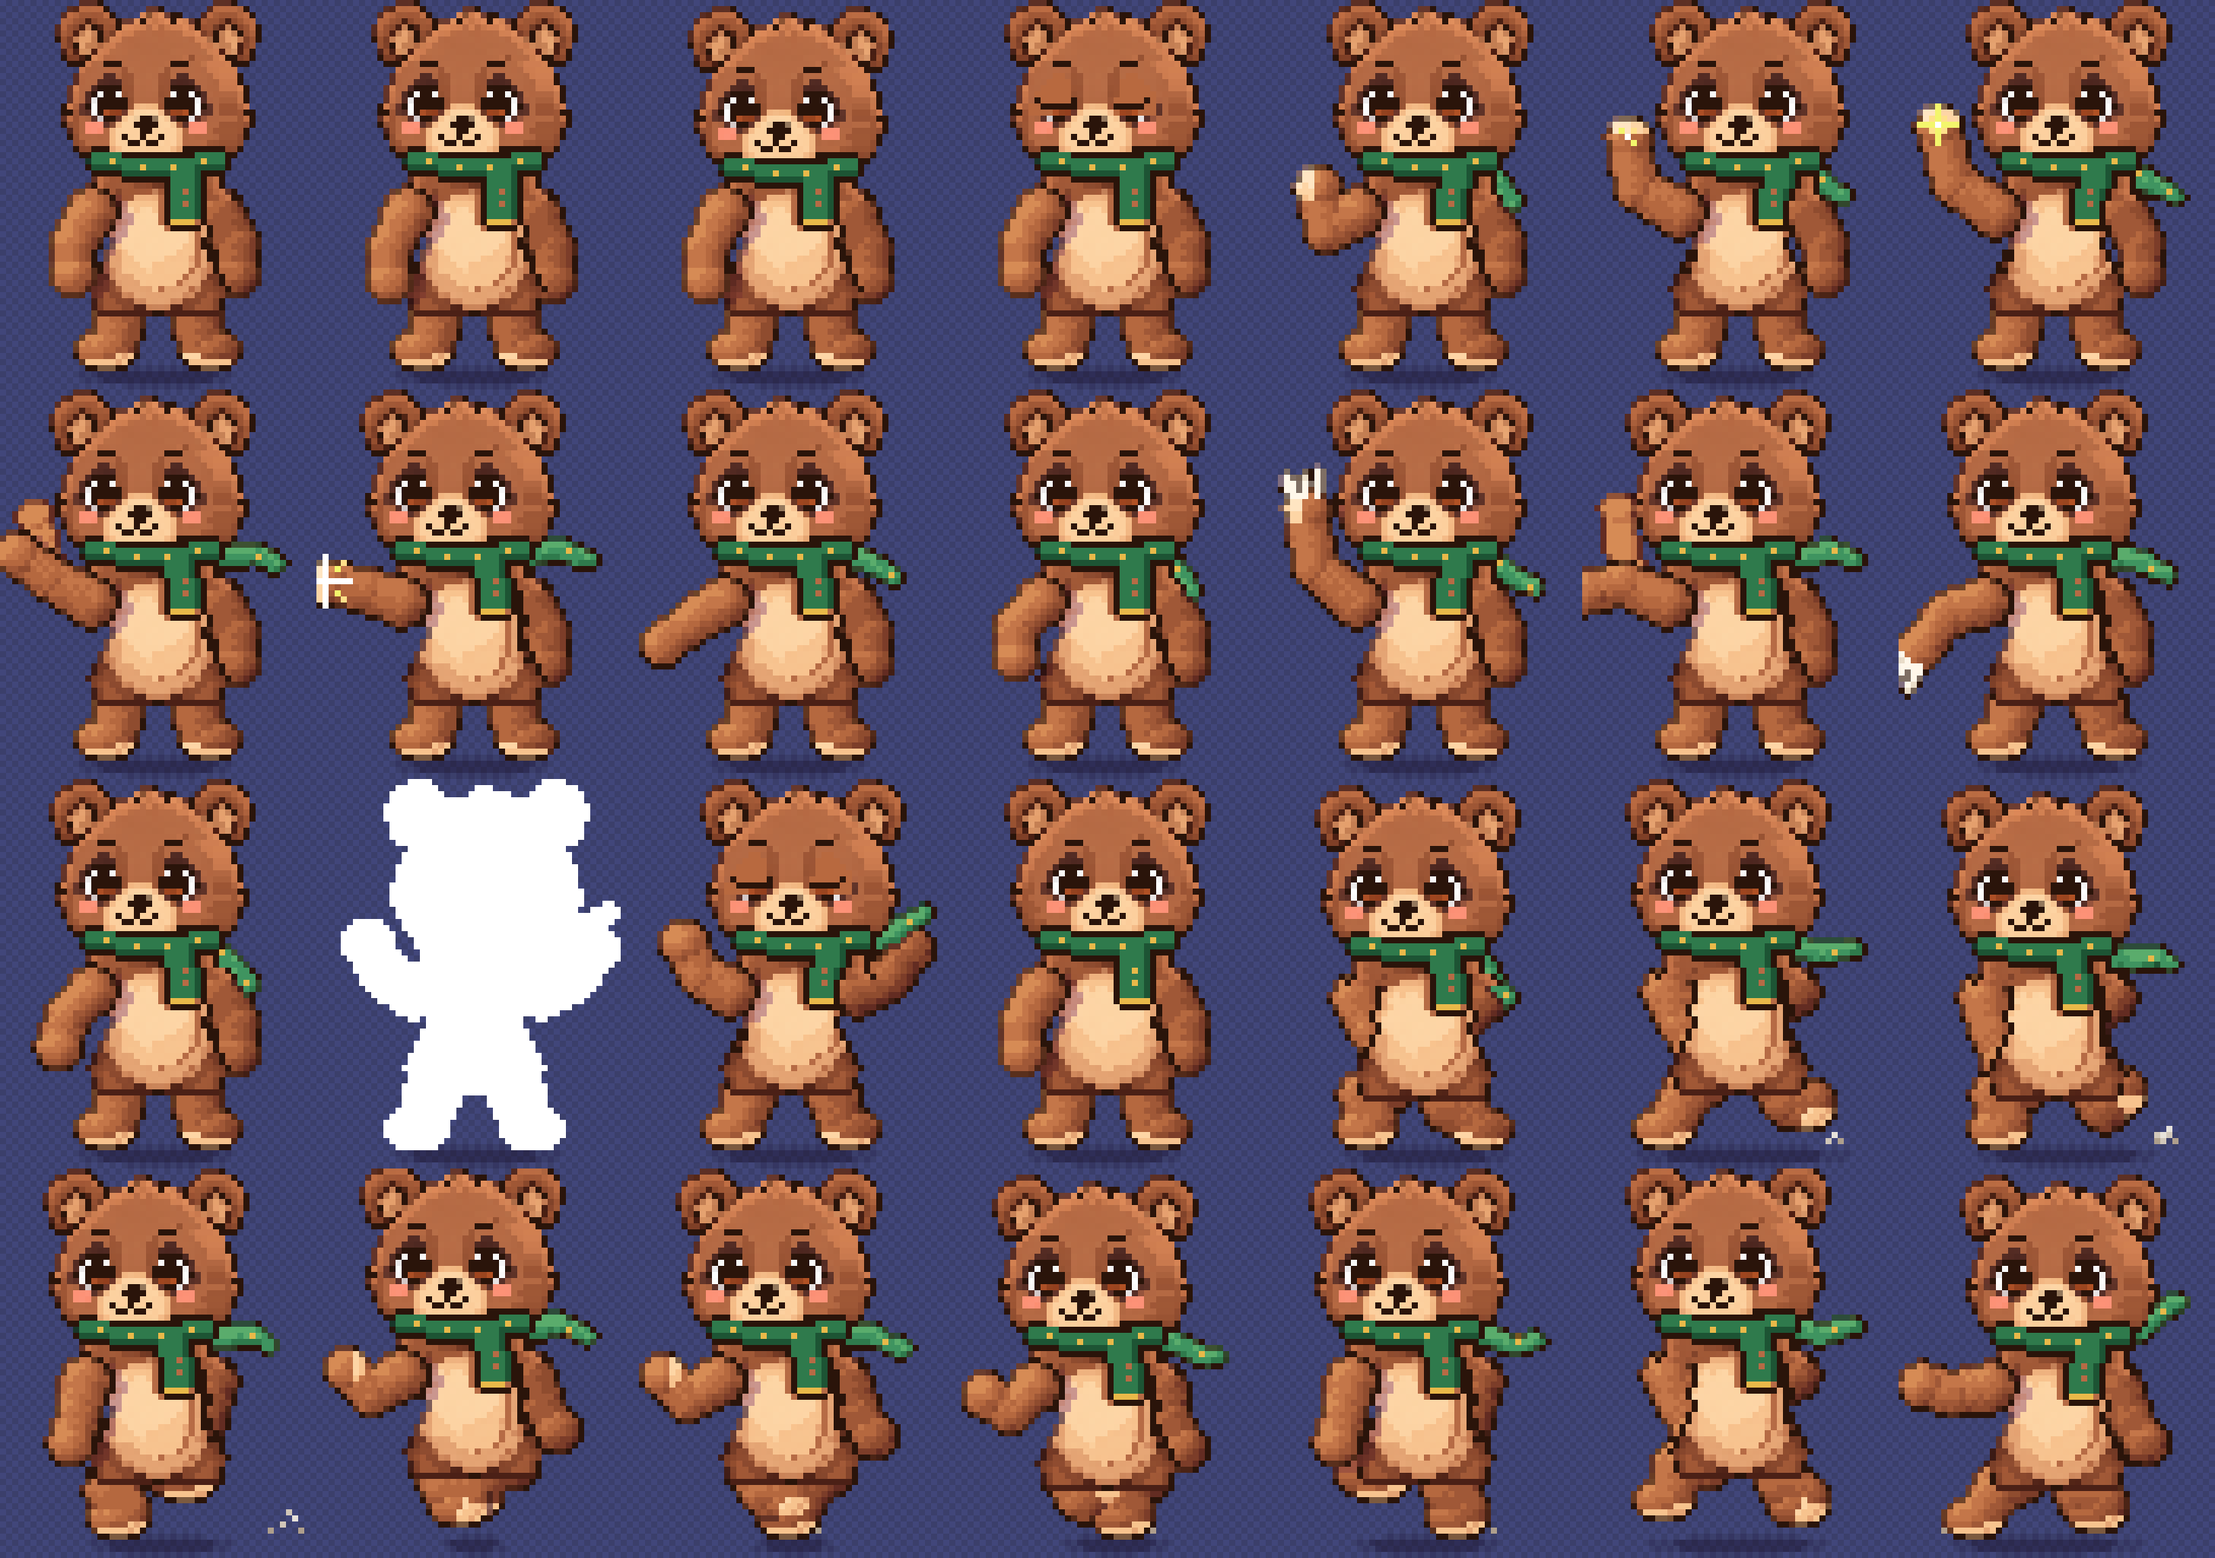
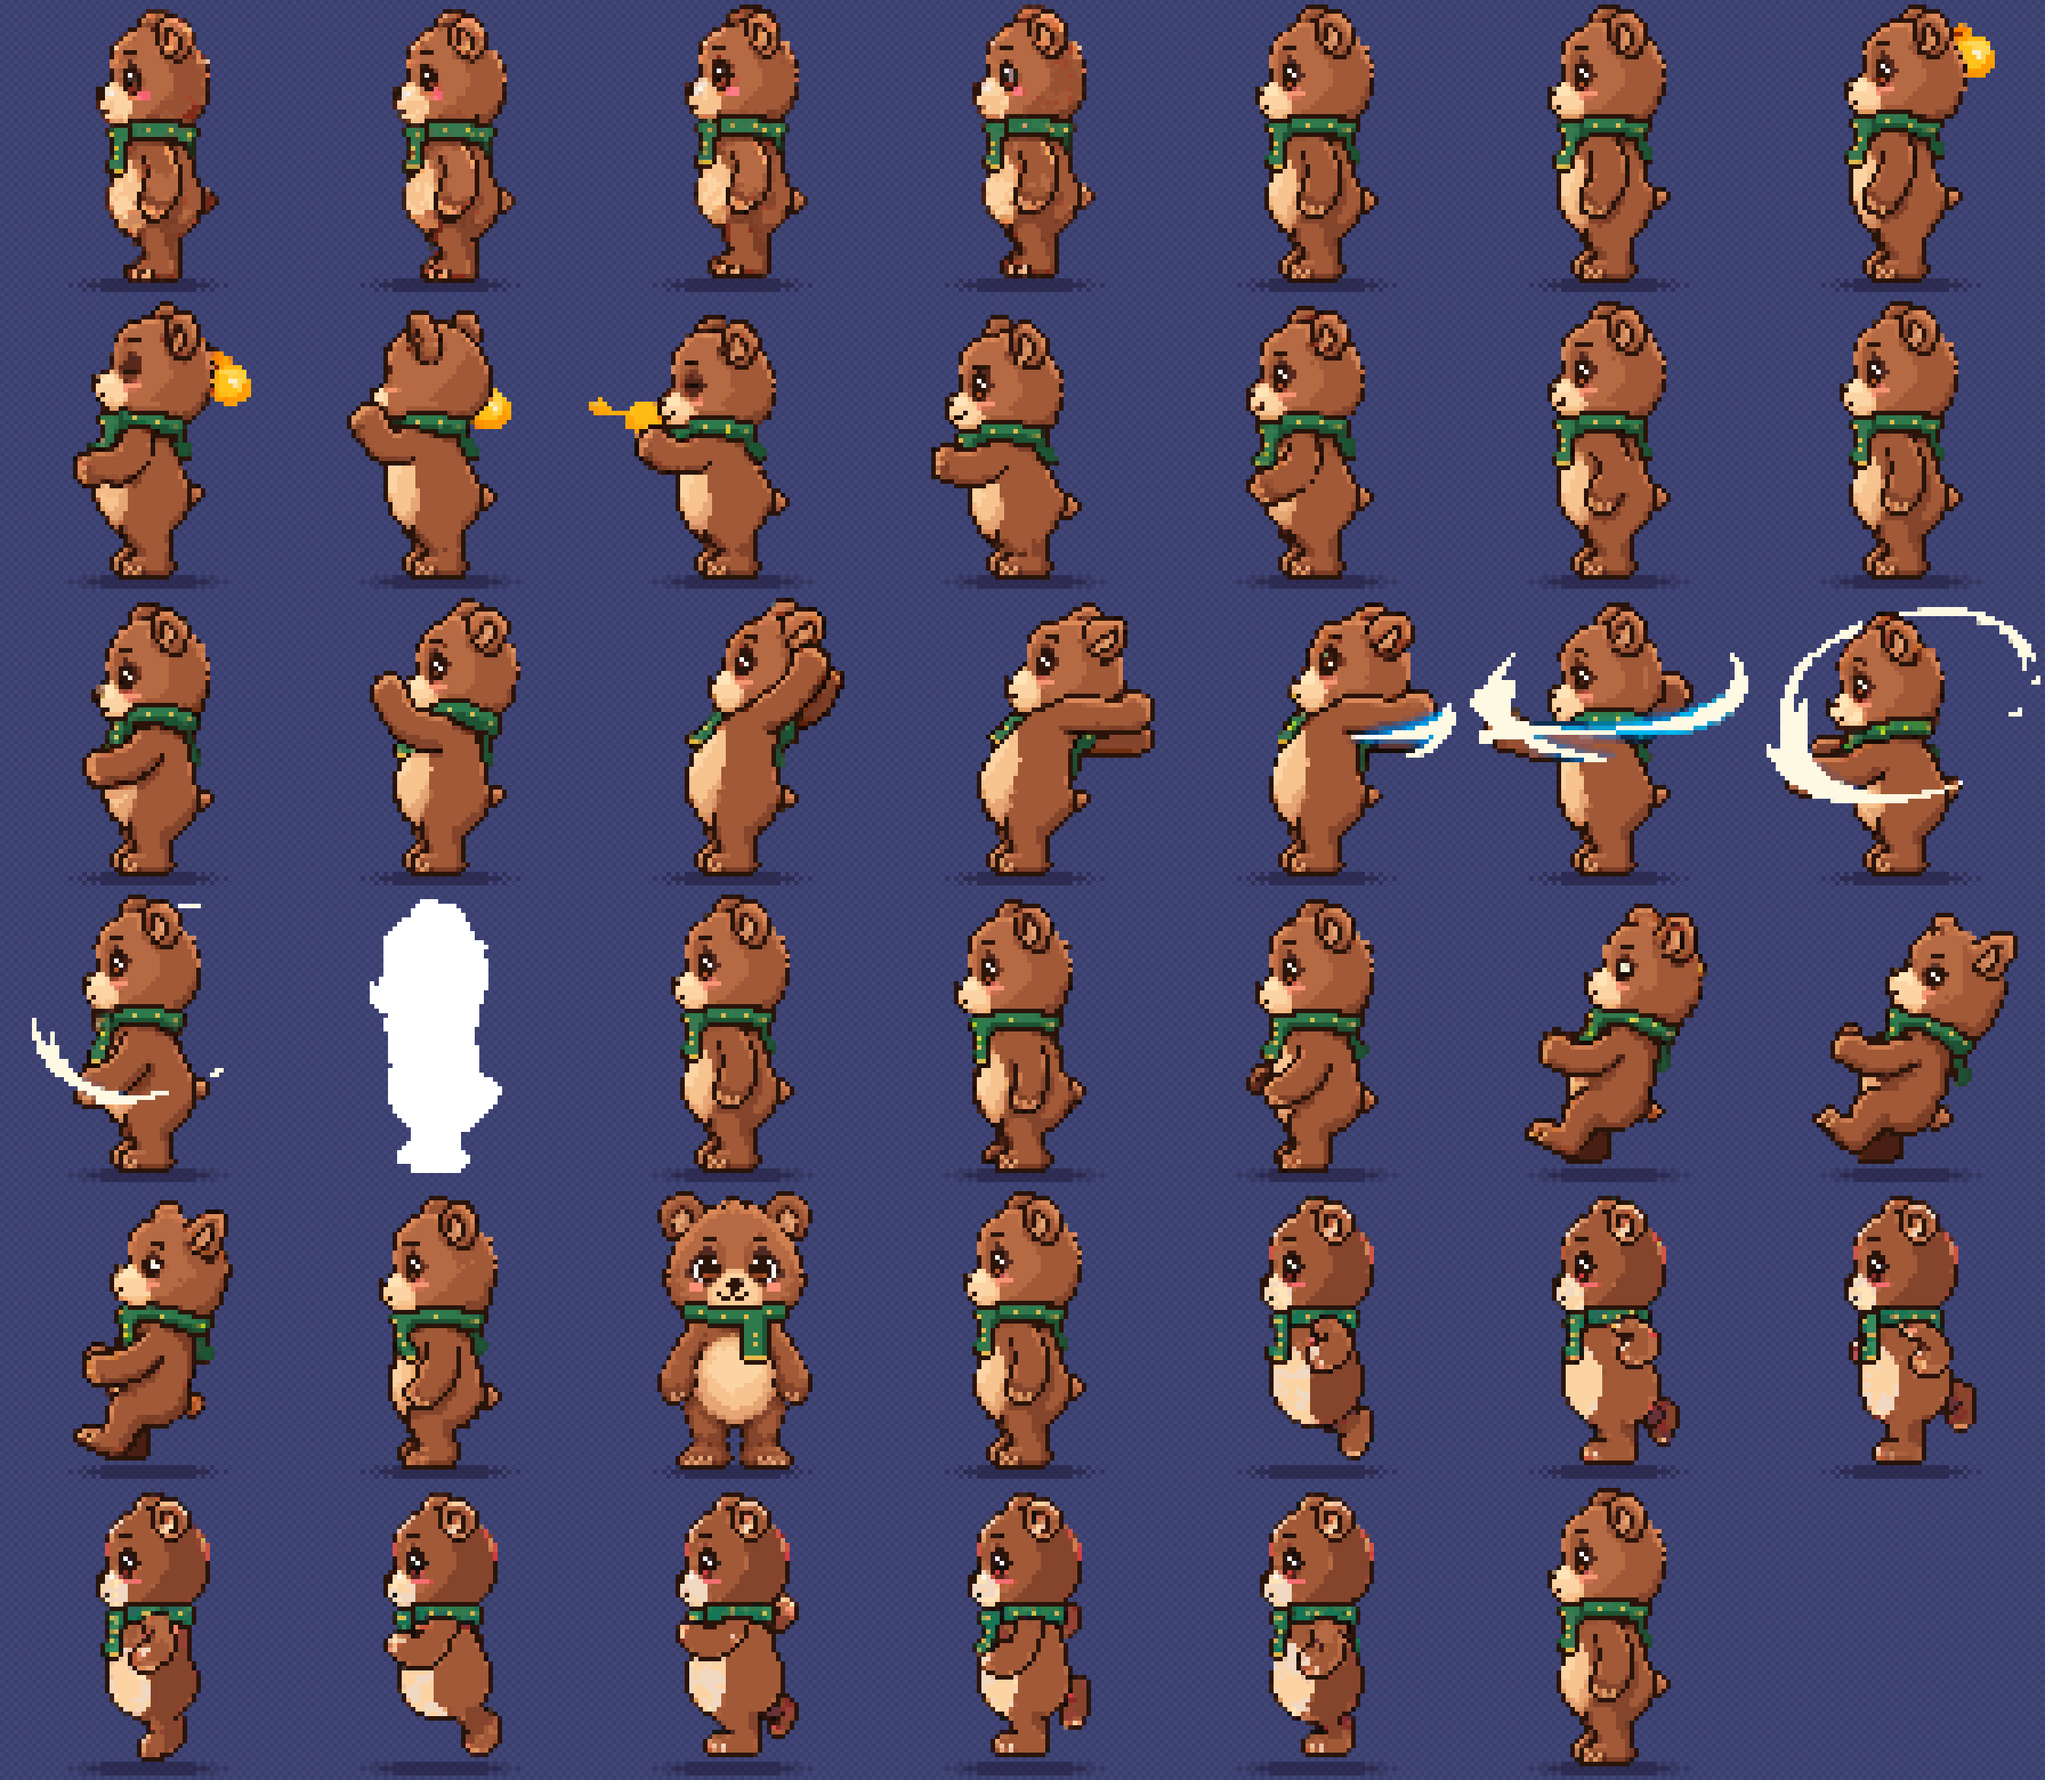
feat(design): regenerate the bear sprites and previews from the PixelLab frames

diff --git a/docs/design/pixel-bear/tools/README.md b/docs/design/pixel-bear/tools/README.md
@@ -11,7 +11,7 @@ Python 3 + Pillow + numpy. Used to generate the PNGs in `../sprites`.
 - `boss_pumpkin.py` — first-unit boss: cuts `reference/boss_pumpkin_ref.png` onto its 25×45 pixel grid (drops the
   background and reflection) and draws the green magic orb `fx_magic.png`.
 
-The battle bear (`bear_battle.png`) is not made here: `mobile/scripts/bear-sprites.ts` (TypeScript, Node 24) draws it
-from `map_bear.png` and writes `mobile/src/lib/pixelBear/bear.json`; animated previews live in `../previews/`.
+The battle bear (`bear_battle.png`) is not made here: its frames are generated with PixelLab
+(pixellab.ai) from `map_bear.png` and kept in `../pixellab/`; `mobile/scripts/bear-sprites.ts` (TypeScript, Node 24) packs them and writes `mobile/src/lib/pixelBear/bear.json`; animated previews live in `../previews/`.
 
 The scripts expect the original ChatGPT bear images and intermediate `raw_*.png` files in the working directory; they are kept for reference and future regeneration, not needed by the app.
